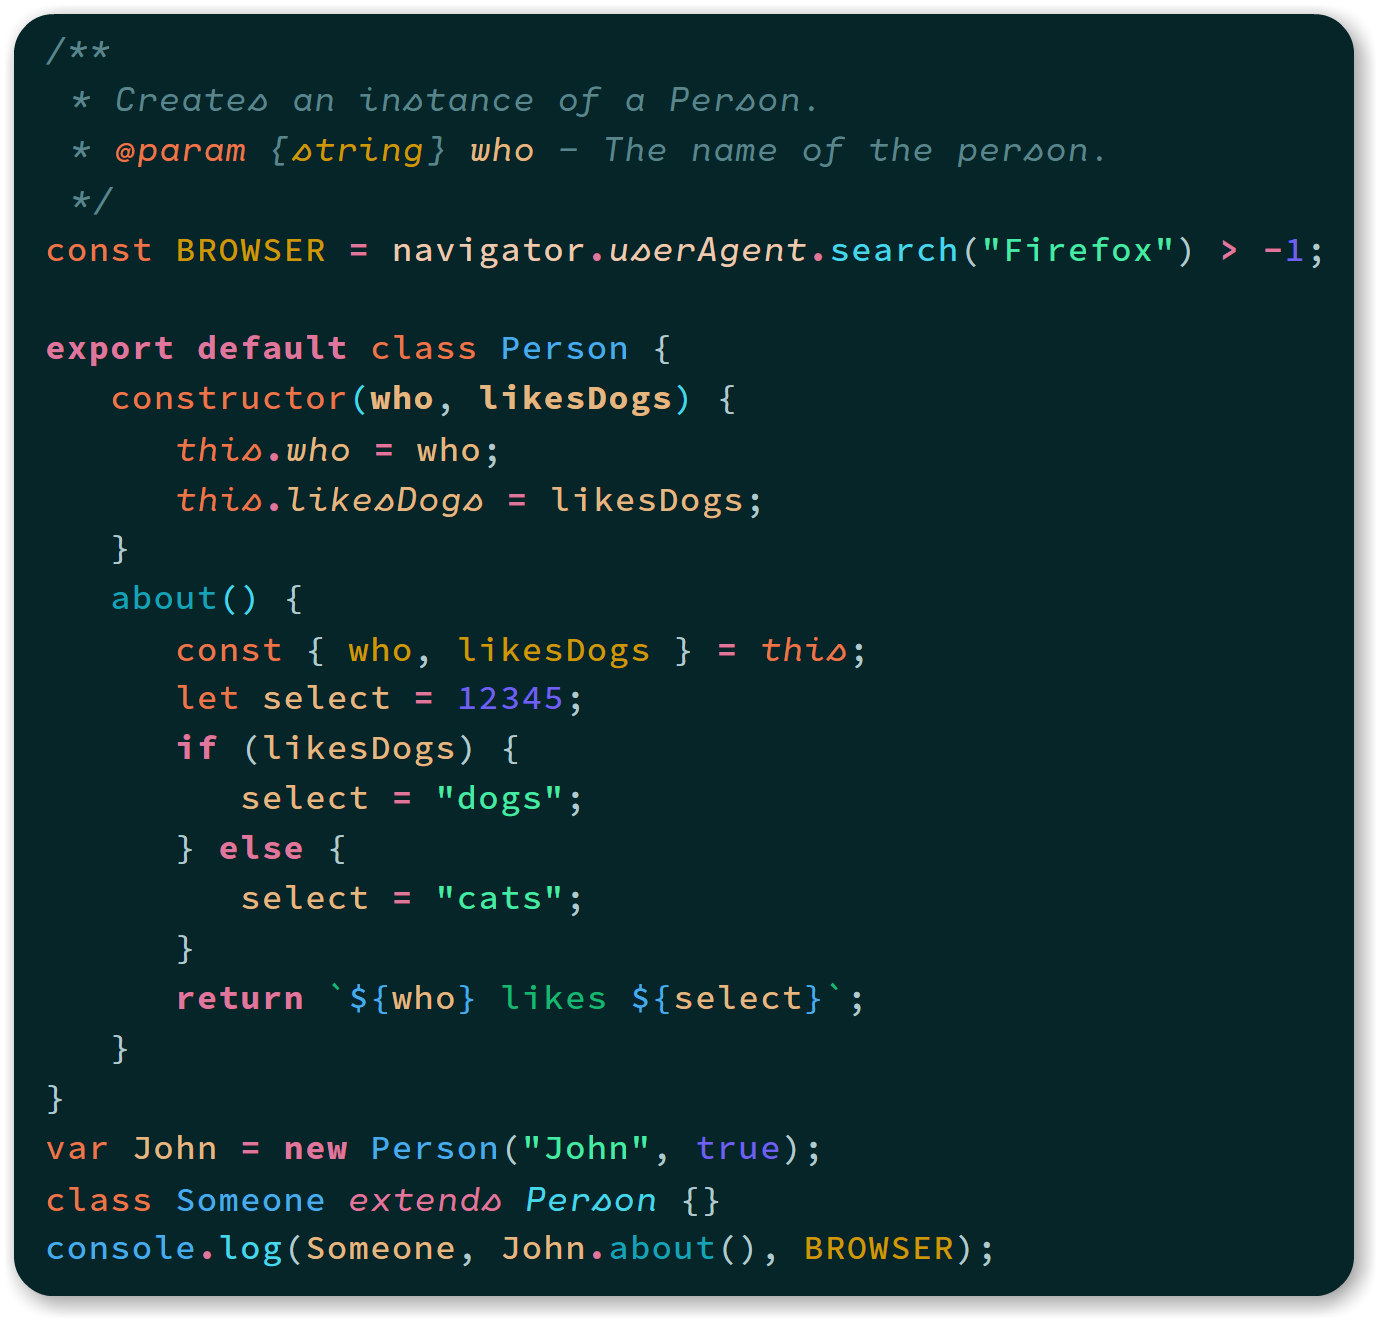
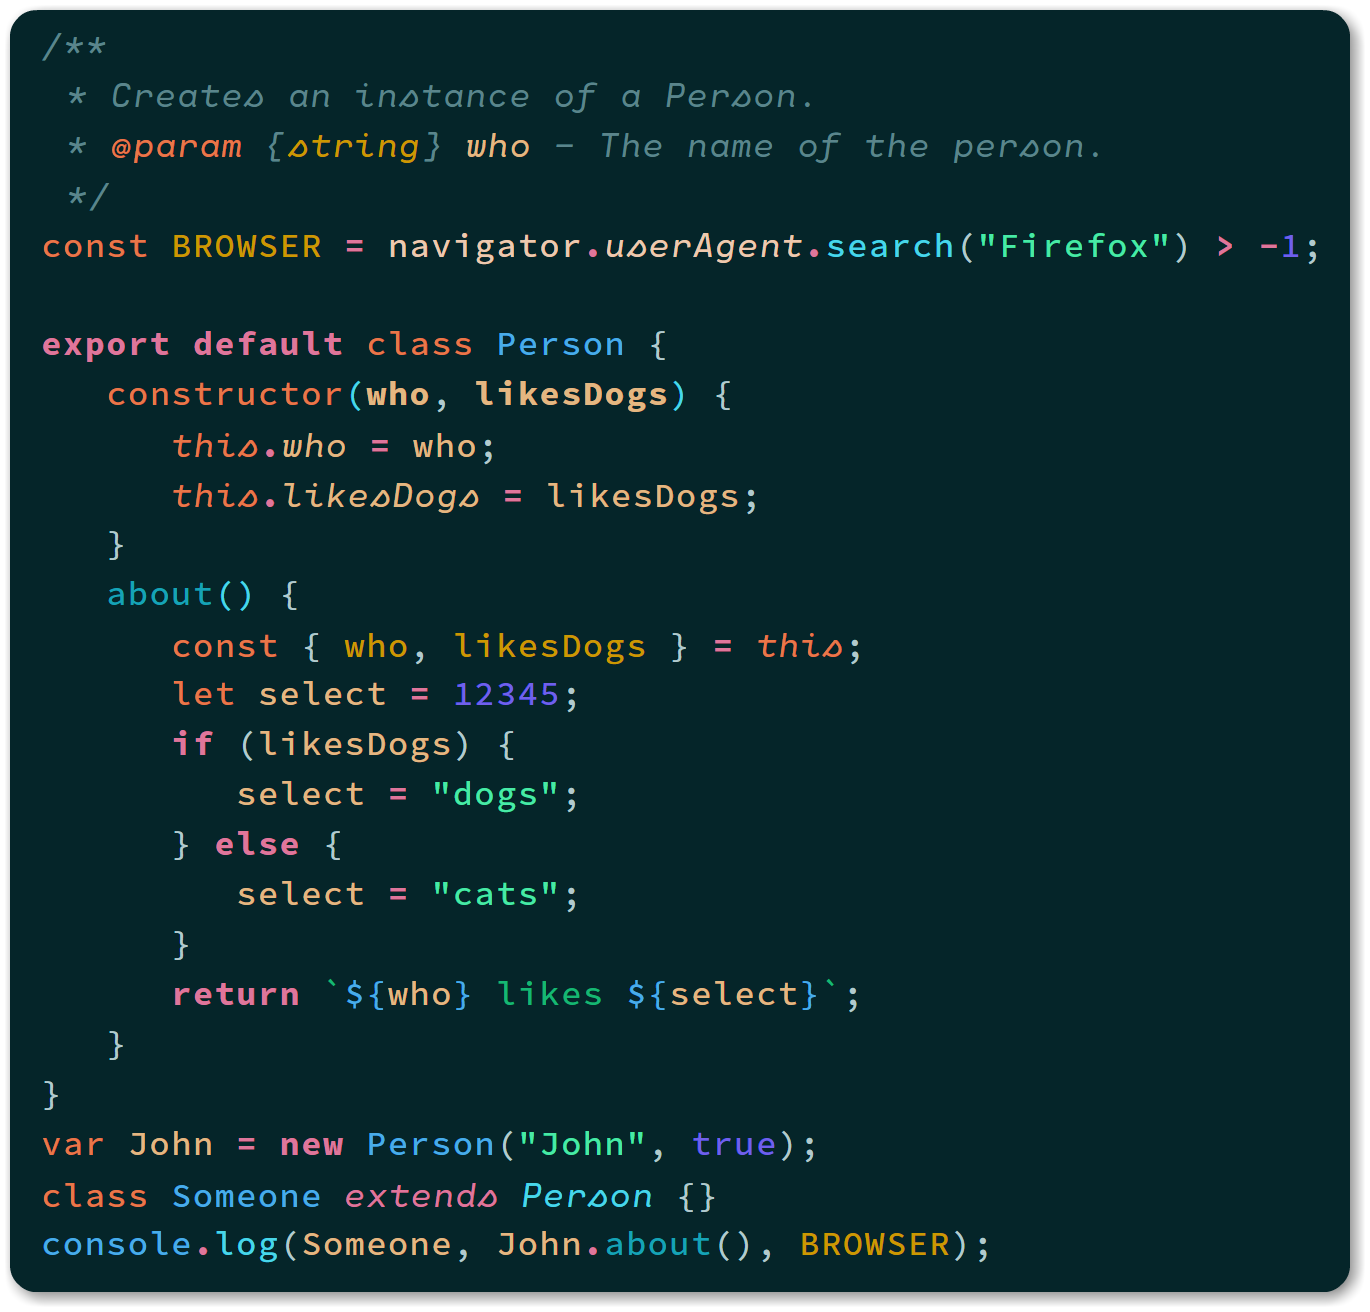
4.22.0

diff --git a/README.md b/README.md
@@ -2,19 +2,19 @@
 
 ## Noctis Uva &larr; **NEW**
 
-![Noctis Uva Screenshot](https://github.com/liviuschera/noctis/raw/master/images/NoctisUva.png)
+![Noctis Uva Screenshot](images/NoctisUva.png)
 
 ## Noctis
 
-![Noctis Screenshot](https://github.com/liviuschera/noctis/raw/master/images/noctis.png)
+![Noctis Screenshot](images/noctis.png)
 
 ## Noctis Azureus
 
-![Noctis Azureus Screenshot](https://github.com/liviuschera/noctis/raw/master/images/noctisAzureus.png)
+![Noctis Azureus Screenshot](images/noctisAzureus.png)
 
 ## Noctis Lux
 
-![Noctis Lux Screenshot](https://github.com/liviuschera/noctis/raw/master/images/noctisLux.png)
+![Noctis Lux Screenshot](images/noctisLux.png)
 
 </div>
 

diff --git a/CHANGELOG.md b/CHANGELOG.md
@@ -1,5 +1,10 @@
 # Change Log
 
+## **4.22.0**
+
+-  replaced Burnt Sienna(`#e97749`) with 5% darker Cinnabar(`#e66533`)
+-  updated screenshots in README.
+
 ## **4.21.0**
 
 -  **SQL** &rarr added support (embedded SQL in PHP as well)
